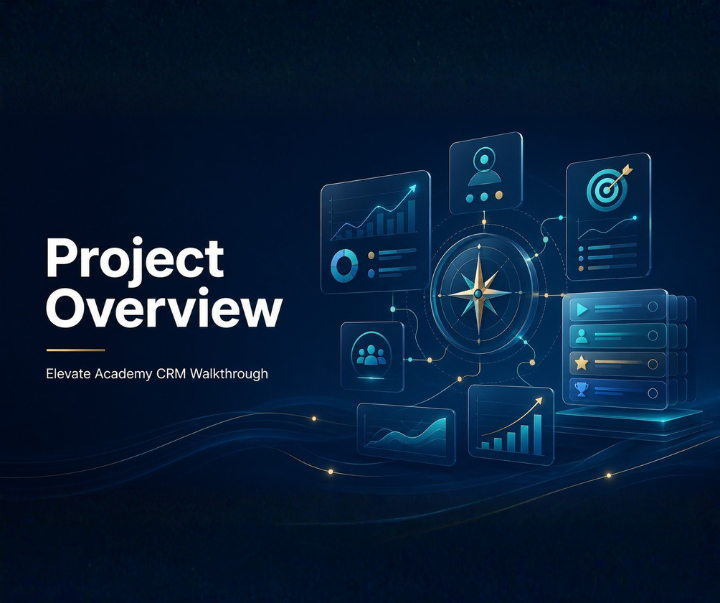
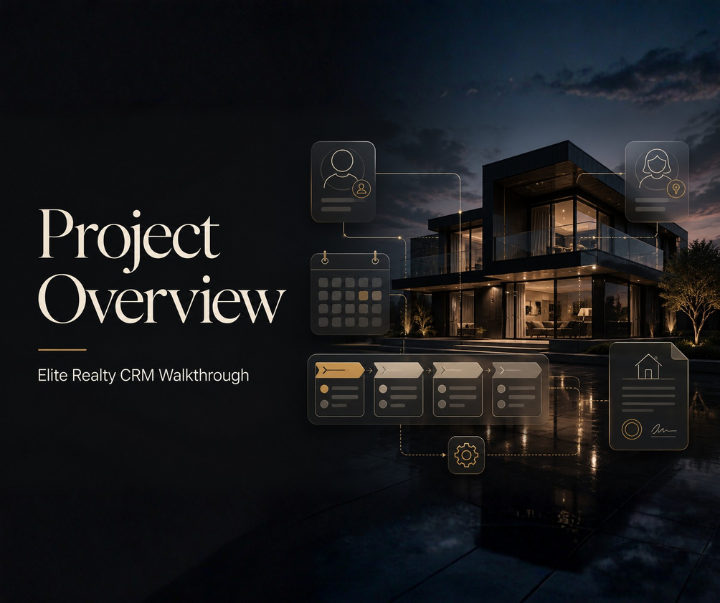
update

diff --git a/index.html b/index.html
@@ -175,38 +175,38 @@ height="0" width="0" style="display:none;visibility:hidden"></iframe></noscript>
           <article class="project-card reveal" data-glow>
             <!-- PROJECT IMAGE PLACEHOLDER: Replace with assets/images/crm-projects/brightsmile-dental-crm-cover.webp. Recommended size: 1600 × 1000 px. -->
             <div class="project-visual project-dental media-placeholder">
-              <img class="project-preview-image" src="assets/images/crm-projects/brightsmile-dental-crm-cover.webp" data-fallback-src="assets/images/video-walkthroughs/brightsmile-dental-crm-walkthrough-thumbnail.webp" alt="BrightSmile Dental CRM walkthrough preview" width="1600" height="1000" loading="lazy" decoding="async">
+              <img class="project-preview-image" src="assets/images/crm-projects/brightsmile-dental-crm-cover.webp" data-fallback-src="assets/images/video-walkthroughs/brightsmile-dental-crm-walkthrough-thumbnail.webp" data-youtube-thumbnail="https://i.ytimg.com/vi/d-qBqiC1Vg0/maxresdefault.jpg" alt="BrightSmile Dental CRM walkthrough preview" width="1600" height="1000" loading="lazy" decoding="async">
               <div class="project-browser"><span></span><span></span><span></span><b>BrightSmile / CRM Workspace</b></div>
               <div class="project-ui"><aside><strong>BS</strong><i></i><i></i><i></i><i></i></aside><div class="ui-main"><div class="ui-title">Patient Journey <span>+ Add Patient</span></div><div class="kanban"><div><b>New Inquiry</b><i></i><i></i></div><div><b>Consultation</b><i></i><i></i><i></i></div><div><b>Treatment</b><i></i><i></i></div></div></div></div>
-              <button class="play-button ripple" type="button" aria-label="Play BrightSmile Dental walkthrough"><span>▶</span></button>
+              <button class="play-button ripple video-trigger" type="button" data-video-type="youtube" data-video-url="https://www.youtube-nocookie.com/embed/d-qBqiC1Vg0?autoplay=1&amp;rel=0" data-video-title="BrightSmile Dental CRM Walkthrough" aria-label="Play the BrightSmile Dental CRM walkthrough"><span>▶</span></button>
               <span class="placeholder-label">Project / Video Thumbnail</span>
             </div>
-            <div class="project-content"><div class="project-meta"><span>Healthcare CRM · Demo Project</span><span>Project 01</span></div><h3>BrightSmile Dental</h3><h4>Dental Clinic Appointment and Patient Journey CRM</h4><dl class="project-case-study"><div><dt>Challenge</dt><dd>A dental clinic needs an organized way to manage bookings, provider availability, patient follow-up, and appointment status.</dd></div><div><dt>Solution</dt><dd>A GoHighLevel system concept connecting service calendars, patient records, pipeline stages, reminders, staff notifications, and follow-up workflows.</dd></div></dl><div class="tags" aria-label="Systems included"><span>Multi-provider calendars</span><span>Patient forms &amp; surveys</span><span>Patient Journey pipeline</span><span>Reminders &amp; notifications</span><span>Review follow-up</span></div><p class="project-outcome"><strong>Intended outcome:</strong> Designed to reduce manual coordination and create a smoother patient journey.</p><button class="button button-dark ripple video-trigger" type="button" data-video-type="mp4" data-video-url="assets/videos/crm/brightsmile-dental-crm-walkthrough.mp4" data-video-title="BrightSmile Dental CRM Walkthrough" aria-label="Watch the BrightSmile Dental CRM walkthrough">Watch Walkthrough <span aria-hidden="true">▶</span></button></div>
+            <div class="project-content"><div class="project-meta"><span>Healthcare CRM · Demo Project</span><span>Project 01</span></div><h3>BrightSmile Dental</h3><h4>Dental Clinic Appointment and Patient Journey CRM</h4><dl class="project-case-study"><div><dt>Challenge</dt><dd>A dental clinic needs an organized way to manage bookings, provider availability, patient follow-up, and appointment status.</dd></div><div><dt>Solution</dt><dd>A GoHighLevel system concept connecting service calendars, patient records, pipeline stages, reminders, staff notifications, and follow-up workflows.</dd></div></dl><div class="tags" aria-label="Systems included"><span>Multi-provider calendars</span><span>Patient forms &amp; surveys</span><span>Patient Journey pipeline</span><span>Reminders &amp; notifications</span><span>Review follow-up</span></div><p class="project-outcome"><strong>Intended outcome:</strong> Designed to reduce manual coordination and create a smoother patient journey.</p><button class="button button-dark ripple video-trigger" type="button" data-video-type="youtube" data-video-url="https://www.youtube-nocookie.com/embed/d-qBqiC1Vg0?autoplay=1&amp;rel=0" data-video-title="BrightSmile Dental CRM Walkthrough" aria-label="Watch the BrightSmile Dental CRM walkthrough">Watch Walkthrough <span aria-hidden="true">▶</span></button></div>
           </article>
 
           <article class="project-card project-reverse reveal" data-glow>
             <!-- PROJECT IMAGE PLACEHOLDER: Replace with assets/images/crm-projects/elite-realty-crm-cover.webp. Recommended size: 1600 × 1000 px. -->
             <div class="project-visual project-realty media-placeholder">
-              <img class="project-preview-image" src="assets/images/crm-projects/elite-realty-crm-cover.webp" data-fallback-src="assets/images/video-walkthroughs/elite-realty-crm-walkthrough-thumbnail.webp" alt="Elite Realty CRM walkthrough preview" width="1600" height="1000" loading="lazy" decoding="async">
+              <img class="project-preview-image" src="assets/images/crm-projects/elite-realty-crm-cover.webp" data-fallback-src="assets/images/video-walkthroughs/elite-realty-crm-walkthrough-thumbnail.webp" data-youtube-thumbnail="https://i.ytimg.com/vi/HGJZMsBAA1g/maxresdefault.jpg" alt="Elite Realty CRM walkthrough preview" width="1600" height="1000" loading="lazy" decoding="async">
               <div class="project-browser"><span></span><span></span><span></span><b>Elite Realty / Pipeline</b></div>
               <div class="realty-ui"><div class="realty-top"><strong>Listings &amp; Transactions</strong><span>Demo view⌄</span></div><div class="chart-grid"><div class="chart-bars"><i></i><i></i><i></i><i></i><i></i><i></i></div><div class="chart-stat"><small>Pipeline overview</small><strong>Demo</strong><span>Portfolio concept</span></div></div><div class="listing-row"><i></i><i></i><i></i></div></div>
-              <button class="play-button ripple" type="button" aria-label="Play Elite Realty CRM walkthrough"><span>▶</span></button>
+              <button class="play-button ripple video-trigger" type="button" data-video-type="youtube" data-video-url="https://www.youtube-nocookie.com/embed/HGJZMsBAA1g?autoplay=1&amp;rel=0" data-video-title="Elite Realty CRM Walkthrough" aria-label="Play the Elite Realty CRM walkthrough"><span>▶</span></button>
               <span class="placeholder-label">Project / Video Thumbnail</span>
 
             </div>
-            <div class="project-content"><div class="project-meta"><span>Real Estate CRM · Concept Project</span><span>Project 02</span></div><h3>Elite Realty CRM</h3><h4>Real Estate Lead and Transaction Management System</h4><dl class="project-case-study"><div><dt>Challenge</dt><dd>A real estate team needs to separate buyer, seller, showing, listing, and transaction journeys without losing lead context.</dd></div><div><dt>Solution</dt><dd>A scalable CRM concept with dedicated pipelines, qualification surveys, consultation calendars, transaction stages, and structured follow-up.</dd></div></dl><div class="tags" aria-label="Systems included"><span>Buyer &amp; Seller pipelines</span><span>Transaction pipeline</span><span>Consultation calendars</span><span>Qualification surveys</span><span>Follow-up automation</span></div><p class="project-outcome"><strong>Intended outcome:</strong> Designed to give agents clearer pipeline visibility and more consistent lead follow-up.</p><!-- VIDEO FILE: assets/videos/crm/elite-realty-crm-walkthrough.mp4 --><button class="button button-dark ripple video-trigger" type="button" data-video-type="mp4" data-video-url="assets/videos/crm/elite-realty-crm-walkthrough.mp4" data-video-title="Elite Realty CRM Walkthrough" aria-label="Watch the Elite Realty CRM walkthrough">Watch Walkthrough <span aria-hidden="true">▶</span></button></div>
+            <div class="project-content"><div class="project-meta"><span>Real Estate CRM · Concept Project</span><span>Project 02</span></div><h3>Elite Realty CRM</h3><h4>Real Estate Lead and Transaction Management System</h4><dl class="project-case-study"><div><dt>Challenge</dt><dd>A real estate team needs to separate buyer, seller, showing, listing, and transaction journeys without losing lead context.</dd></div><div><dt>Solution</dt><dd>A scalable CRM concept with dedicated pipelines, qualification surveys, consultation calendars, transaction stages, and structured follow-up.</dd></div></dl><div class="tags" aria-label="Systems included"><span>Buyer &amp; Seller pipelines</span><span>Transaction pipeline</span><span>Consultation calendars</span><span>Qualification surveys</span><span>Follow-up automation</span></div><p class="project-outcome"><strong>Intended outcome:</strong> Designed to give agents clearer pipeline visibility and more consistent lead follow-up.</p><button class="button button-dark ripple video-trigger" type="button" data-video-type="youtube" data-video-url="https://www.youtube-nocookie.com/embed/HGJZMsBAA1g?autoplay=1&amp;rel=0" data-video-title="Elite Realty CRM Walkthrough" aria-label="Watch the Elite Realty CRM walkthrough">Watch Walkthrough <span aria-hidden="true">▶</span></button></div>
           </article>
 
           <article class="project-card reveal" data-glow>
             <!-- PROJECT IMAGE PLACEHOLDER: Replace with assets/images/crm-projects/elevate-academy-crm-cover.webp. Recommended size: 1600 × 1000 px. -->
             <div class="project-visual project-flow media-placeholder">
-              <img class="project-preview-image" src="assets/images/crm-projects/elevate-academy-crm-cover.webp" data-fallback-src="assets/images/video-walkthroughs/elevate-academy-crm-walkthrough-thumbnail.webp" alt="Elevate Academy CRM walkthrough preview" width="1600" height="1000" loading="lazy" decoding="async">
+              <img class="project-preview-image" src="assets/images/crm-projects/elevate-academy-crm-cover.webp" data-fallback-src="assets/images/video-walkthroughs/elevate-academy-crm-walkthrough-thumbnail.webp" data-youtube-thumbnail="https://i.ytimg.com/vi/8oDk-iuOhcM/maxresdefault.jpg" alt="Elevate Academy CRM walkthrough preview" width="1600" height="1000" loading="lazy" decoding="async">
               <div class="project-browser"><span></span><span></span><span></span><b>Elevate Academy / Customer Journey</b></div>
               <div class="flow-ui"><div class="flow-node node-one"><small>Lead Journey</small><b>Application or course purchase</b></div><span class="flow-line">↓</span><div class="flow-split"><div class="flow-node"><small>Program Path</small><b>Booking &amp; enrollment</b></div><div class="flow-node"><small>Follow-Through</small><b>Progress &amp; feedback</b></div></div></div>
-              <button class="play-button ripple" type="button" aria-label="Play Elevate Academy CRM walkthrough"><span>▶</span></button>
+              <button class="play-button ripple video-trigger" type="button" data-video-type="youtube" data-video-url="https://www.youtube-nocookie.com/embed/8oDk-iuOhcM?autoplay=1&amp;rel=0" data-video-title="Elevate Academy CRM Walkthrough" aria-label="Play the Elevate Academy CRM walkthrough"><span>▶</span></button>
               <span class="placeholder-label">Elevate Academy System Preview</span>
             </div>
-            <div class="project-content"><div class="project-meta"><span>Online Coaching &amp; Course CRM · Fictional Project</span><span>Project 03</span></div><h3>Elevate Academy</h3><h4>Complete Coaching, Course Enrollment and Customer Journey System</h4><p>Elevate Academy is a fictional online coaching and course business that I created to demonstrate a complete customer journey inside GoHighLevel.</p><dl class="project-case-study"><div><dt>Programs</dt><dd>The business offers three programs: One-on-One Coaching, Group Coaching, and a Self-Paced Course.</dd></div><div><dt>System Design</dt><dd>The system is designed to manage the journey from initial lead capture through application, booking, enrollment, onboarding, progress tracking, program completion, and feedback collection.</dd></div></dl><div class="tags" aria-label="Systems included"><span>Coaching applications</span><span>Discovery call calendar</span><span>Course sales</span><span>Enrollment &amp; onboarding</span><span>Progress tracking</span><span>Program feedback</span></div><p class="project-outcome"><strong>Intended outcome:</strong> Designed to demonstrate how one connected GoHighLevel system can organize the complete coaching and course customer journey.</p><!-- VIDEO FILE: assets/videos/crm/elevate-academy-crm-walkthrough.mp4 --><button class="button button-dark ripple video-trigger" type="button" data-video-type="mp4" data-video-url="assets/videos/crm/elevate-academy-crm-walkthrough.mp4" data-video-title="Elevate Academy CRM Walkthrough" aria-label="Watch the Elevate Academy CRM walkthrough">Watch Walkthrough <span aria-hidden="true">▶</span></button></div>
+            <div class="project-content"><div class="project-meta"><span>Online Coaching &amp; Course CRM · Fictional Project</span><span>Project 03</span></div><h3>Elevate Academy</h3><h4>Complete Coaching, Course Enrollment and Customer Journey System</h4><p>Elevate Academy is a fictional online coaching and course business that I created to demonstrate a complete customer journey inside GoHighLevel.</p><dl class="project-case-study"><div><dt>Programs</dt><dd>The business offers three programs: One-on-One Coaching, Group Coaching, and a Self-Paced Course.</dd></div><div><dt>System Design</dt><dd>The system is designed to manage the journey from initial lead capture through application, booking, enrollment, onboarding, progress tracking, program completion, and feedback collection.</dd></div></dl><div class="tags" aria-label="Systems included"><span>Coaching applications</span><span>Discovery call calendar</span><span>Course sales</span><span>Enrollment &amp; onboarding</span><span>Progress tracking</span><span>Program feedback</span></div><p class="project-outcome"><strong>Intended outcome:</strong> Designed to demonstrate how one connected GoHighLevel system can organize the complete coaching and course customer journey.</p><button class="button button-dark ripple video-trigger" type="button" data-video-type="youtube" data-video-url="https://www.youtube-nocookie.com/embed/8oDk-iuOhcM?autoplay=1&amp;rel=0" data-video-title="Elevate Academy CRM Walkthrough" aria-label="Watch the Elevate Academy CRM walkthrough">Watch Walkthrough <span aria-hidden="true">▶</span></button></div>
           </article>
         </div>
 

diff --git a/script.js b/script.js
@@ -624,7 +624,10 @@ function initCardEffects() {
     });
   });
   document.querySelectorAll(".play-button").forEach((button) => {
-    button.addEventListener("click", () => button.closest(".project-card")?.querySelector(".project-content .button")?.click());
+    button.addEventListener("click", () => {
+      if (button.dataset.videoUrl) return;
+      button.closest(".project-card")?.querySelector(".project-content .button")?.click();
+    });
   });
   initImageFallbacks(document);
 }
@@ -696,9 +699,12 @@ function initAnalyticsEvents() {
 function initProjectPreviewImages() {
   document.querySelectorAll(".project-preview-image").forEach((image) => {
     const revealImage = () => image.classList.add("is-loaded");
+    const fallbackSources = [image.dataset.fallbackSrc, image.dataset.youtubeThumbnail].filter(Boolean);
+    let fallbackIndex = 0;
     const handleError = () => {
-      const fallbackSource = image.dataset.fallbackSrc;
-      if (fallbackSource && image.src !== new URL(fallbackSource, document.baseURI).href) {
+      const fallbackSource = fallbackSources[fallbackIndex];
+      fallbackIndex += 1;
+      if (fallbackSource) {
         image.src = fallbackSource;
         return;
       }
@@ -790,7 +796,7 @@ function initVideoModal() {
     if (type === "youtube") {
       mediaElement.src = url;
       mediaElement.title = trigger.dataset.videoTitle || "Project video walkthrough";
-      mediaElement.allow = "accelerometer; encrypted-media; gyroscope; picture-in-picture";
+      mediaElement.allow = "autoplay; accelerometer; encrypted-media; gyroscope; picture-in-picture";
       mediaElement.allowFullscreen = true;
     } else {
       mediaElement.src = url;
